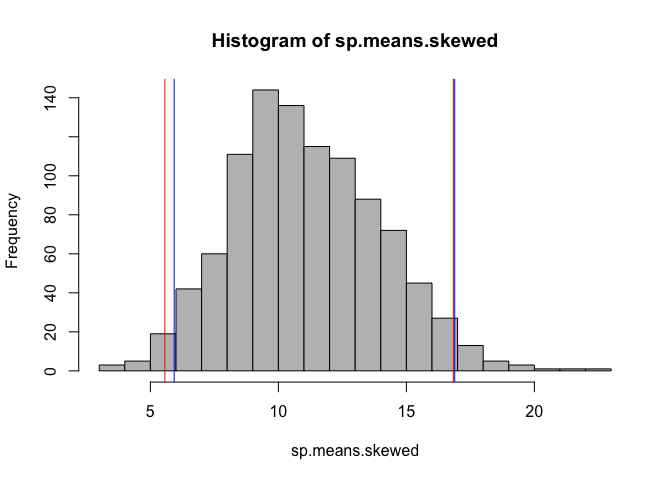
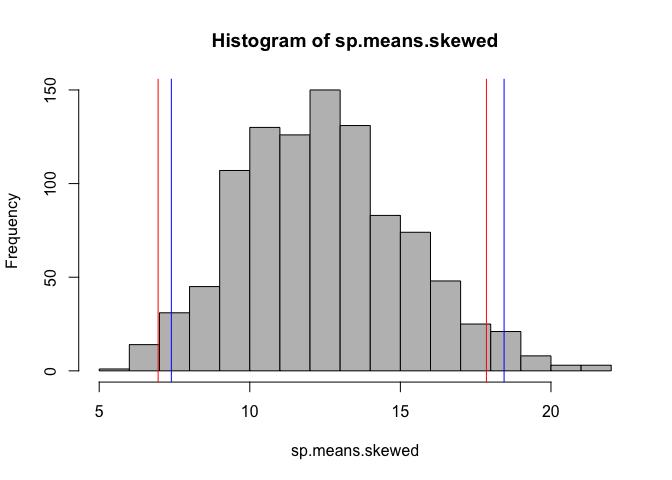
minor edit

diff --git a/hypothesis_testing.md b/hypothesis_testing.md
@@ -1,7 +1,7 @@
 Basic Hypothesis Testing
 ================
 Yue Shi, PhD candidate, University of Washington,
-4/21/2018
+4/24/2018
 
 Import packages and data sets
 -----------------------------
@@ -213,20 +213,20 @@ SIGN.test(x, md = 2) # it use median (md) instead of mean (mu).
     ##  One-sample Sign-Test
     ## 
     ## data:  x
-    ## s = 47, p-value = 0.6173
+    ## s = 43, p-value = 0.1933
     ## alternative hypothesis: true median is not equal to 2
     ## 95 percent confidence interval:
-    ##  1.852698 2.247621
+    ##  1.650824 2.035502
     ## sample estimates:
     ## median of x 
-    ##    1.943998 
+    ##    1.766878 
     ## 
     ## Achieved and Interpolated Confidence Intervals: 
     ## 
     ##                   Conf.Level L.E.pt U.E.pt
-    ## Lower Achieved CI     0.9431 1.8627 2.2285
-    ## Interpolated CI       0.9500 1.8527 2.2476
-    ## Upper Achieved CI     0.9648 1.8312 2.2887
+    ## Lower Achieved CI     0.9431 1.6547 2.0343
+    ## Interpolated CI       0.9500 1.6508 2.0355
+    ## Upper Achieved CI     0.9648 1.6424 2.0381
 
 What about using one-sample t-test on this?
 
@@ -238,13 +238,13 @@ t.test(x,mu=2)
     ##  One Sample t-test
     ## 
     ## data:  x
-    ## t = 0.13989, df = 99, p-value = 0.889
+    ## t = -1.0101, df = 99, p-value = 0.3149
     ## alternative hypothesis: true mean is not equal to 2
     ## 95 percent confidence interval:
-    ##  1.816101 2.211795
+    ##  1.724681 2.089572
     ## sample estimates:
     ## mean of x 
-    ##  2.013948
+    ##  1.907126
 
 #### Wilconxon Signed-Rank Test
 
@@ -258,7 +258,7 @@ wilcox.test(x, mu = 2) #it use mean (mu) instead of median (md)
     ##  Wilcoxon signed rank test with continuity correction
     ## 
     ## data:  x
-    ## V = 2588, p-value = 0.8298
+    ## V = 2221, p-value = 0.2967
     ## alternative hypothesis: true location is not equal to 2
 
 Now, you try with paired data. First, generate some random data from the normal distribution, calculate the difference and do the appropriate test.
@@ -273,13 +273,13 @@ t.test(dif,mu=0)
     ##  One Sample t-test
     ## 
     ## data:  dif
-    ## t = -3.2653, df = 99, p-value = 0.001503
+    ## t = -5.3177, df = 99, p-value = 6.523e-07
     ## alternative hypothesis: true mean is not equal to 0
     ## 95 percent confidence interval:
-    ##  -0.7755368 -0.1892579
+    ##  -1.0250073 -0.4679367
     ## sample estimates:
-    ##  mean of x 
-    ## -0.4823973
+    ## mean of x 
+    ## -0.746472
 
 ``` r
 SIGN.test(dif,md=0)
@@ -289,20 +289,20 @@ SIGN.test(dif,md=0)
     ##  One-sample Sign-Test
     ## 
     ## data:  dif
-    ## s = 34, p-value = 0.00179
+    ## s = 28, p-value = 1.258e-05
     ## alternative hypothesis: true median is not equal to 0
     ## 95 percent confidence interval:
-    ##  -0.8335597 -0.1420642
+    ##  -0.9606753 -0.4832073
     ## sample estimates:
     ## median of x 
-    ##   -0.401085 
+    ##  -0.7284832 
     ## 
     ## Achieved and Interpolated Confidence Intervals: 
     ## 
     ##                   Conf.Level  L.E.pt  U.E.pt
-    ## Lower Achieved CI     0.9431 -0.8328 -0.1468
-    ## Interpolated CI       0.9500 -0.8336 -0.1421
-    ## Upper Achieved CI     0.9648 -0.8352 -0.1318
+    ## Lower Achieved CI     0.9431 -0.9591 -0.4906
+    ## Interpolated CI       0.9500 -0.9607 -0.4832
+    ## Upper Achieved CI     0.9648 -0.9641 -0.4672
 
 ``` r
 wilcox.test(dif,mu=0)
@@ -312,7 +312,7 @@ wilcox.test(dif,mu=0)
     ##  Wilcoxon signed rank test with continuity correction
     ## 
     ## data:  dif
-    ## V = 1636, p-value = 0.002251
+    ## V = 1179, p-value = 3.723e-06
     ## alternative hypothesis: true location is not equal to 0
 
 **Wilcoxon signed-rank test is more powerful than the simply sign test.** Using the rank data in addition to the sign data gave us much better precision, since it has smaller p value.
@@ -330,7 +330,7 @@ wilcox.test(x,z)
     ##  Wilcoxon rank sum test with continuity correction
     ## 
     ## data:  x and z
-    ## W = 4777, p-value = 0.5867
+    ## W = 4384, p-value = 0.1326
     ## alternative hypothesis: true location shift is not equal to 0
 
 Now make random normal data set of 1000 elements with a mean of 2 and a random gamma data set whose shape parameter is 2 (will also have an expected value of 2). Make density plot of each, marking the means.
@@ -362,7 +362,7 @@ wilcox.test(normd$normd,gammad$gammad)
     ##  Wilcoxon rank sum test with continuity correction
     ## 
     ## data:  normd$normd and gammad$gammad
-    ## W = 568100, p-value = 1.339e-07
+    ## W = 533210, p-value = 0.01011
     ## alternative hypothesis: true location shift is not equal to 0
 
 Next, do a WRST on the WW domain reported\_effect scores vs the Pab1 reported\_effect scores, and compare the results with t test.
@@ -421,7 +421,7 @@ kruskal.test(list(d1,d2,d3))
     ##  Kruskal-Wallis rank sum test
     ## 
     ## data:  list(d1, d2, d3)
-    ## Kruskal-Wallis chi-squared = 1.1631, df = 2, p-value = 0.559
+    ## Kruskal-Wallis chi-squared = 2.6941, df = 2, p-value = 0.26
 
 OK, now double the shape parameter for d3 and test again
 
@@ -434,7 +434,7 @@ kruskal.test(list(d1,d2,d3))
     ##  Kruskal-Wallis rank sum test
     ## 
     ## data:  list(d1, d2, d3)
-    ## Kruskal-Wallis chi-squared = 70.147, df = 2, p-value = 5.858e-16
+    ## Kruskal-Wallis chi-squared = 71.796, df = 2, p-value = 2.568e-16
 
 Use **pairwise.wilcox.test()** to see which of our three data sets is different from the others (note the automatic correction for multiple hypothesis testing). It requires some formatting work.
 
@@ -450,8 +450,8 @@ pairwise.wilcox.test(combined.vector,grouping.vector, paired = TRUE)
     ## data:  combined.vector and grouping.vector 
     ## 
     ##    d1      d2     
-    ## d2 0.62    -      
-    ## d3 9.6e-11 2.1e-10
+    ## d2 0.13    -      
+    ## d3 3.0e-11 6.1e-08
     ## 
     ## P value adjustment method: holm
 
@@ -513,13 +513,13 @@ t.test(null.y~carrier, var.equal=TRUE)
     ##  Two Sample t-test
     ## 
     ## data:  null.y by carrier
-    ## t = -0.39736, df = 298, p-value = 0.6914
+    ## t = 0.33047, df = 298, p-value = 0.7413
     ## alternative hypothesis: true difference in means is not equal to 0
     ## 95 percent confidence interval:
-    ##  -0.2908188  0.1931069
+    ##  -0.1793505  0.2517406
     ## sample estimates:
     ## mean in group 0 mean in group 1 
-    ##     -0.01016633      0.03868963
+    ##     -0.03390658     -0.07010164
 
 ``` r
 t.test(alt.y~carrier, var.equal=TRUE)
@@ -529,13 +529,13 @@ t.test(alt.y~carrier, var.equal=TRUE)
     ##  Two Sample t-test
     ## 
     ## data:  alt.y by carrier
-    ## t = -4.4298, df = 298, p-value = 1.326e-05
+    ## t = -3.1513, df = 298, p-value = 0.001791
     ## alternative hypothesis: true difference in means is not equal to 0
     ## 95 percent confidence interval:
-    ##  -0.8464740 -0.3257216
+    ##  -0.6574205 -0.1519697
     ## sample estimates:
     ## mean in group 0 mean in group 1 
-    ##      -0.1808442       0.4052536
+    ##       0.1240392       0.5287342
 
 Now, define test statistics for randomization tests for the null and alternate distributions
 
@@ -572,14 +572,14 @@ abline(v=alt.diff, lwd=2, col="red")
 mean(abs(null.rand) > abs(null.diff))
 ```
 
-    ## [1] 0.7
+    ## [1] 0.744
 
 ``` r
 #take absolute values, since you can do .rand-.diff, or .diff-.rand. 
 mean(abs(alt.rand) > abs(alt.diff))
 ```
 
-    ## [1] 0
+    ## [1] 0.002
 
 Results of t-tests and randomization tests are very comparable, which is expected. Since the data is sampled from a normal distribution with equal variance and the sample size is very big. Both assumptions of t.test are met. Rampling is nearly as powerful as parametric tests.
 
@@ -603,13 +603,13 @@ variance = sumsqr* (1/(length(sp.means)-1))
 variance
 ```
 
-    ## [1] 0.004482247
+    ## [1] 0.004067412
 
 ``` r
 var(sp.means)
 ```
 
-    ## [1] 0.004482247
+    ## [1] 0.004067412
 
 Now, calculate 95% CIs for the sample mean using this value and make a histogram showing where they fall. And compare this to the percentile method for 95% CIs we learned during lecture (97.5% and 2.5%).
 
@@ -651,13 +651,13 @@ variance = sumsqr* (1/(length(sp.means.skewed)-1))
 variance
 ```
 
-    ## [1] 8.263515
+    ## [1] 7.732594
 
 ``` r
 var(sp.means.skewed)
 ```
 
-    ## [1] 8.263515
+    ## [1] 7.732594
 
 Now, calculate 95% CIs for the sample mean using this value and make a histogram showing where they fall. And then compare this to the percentile method for 95% CIs we learned during lecture.
 
